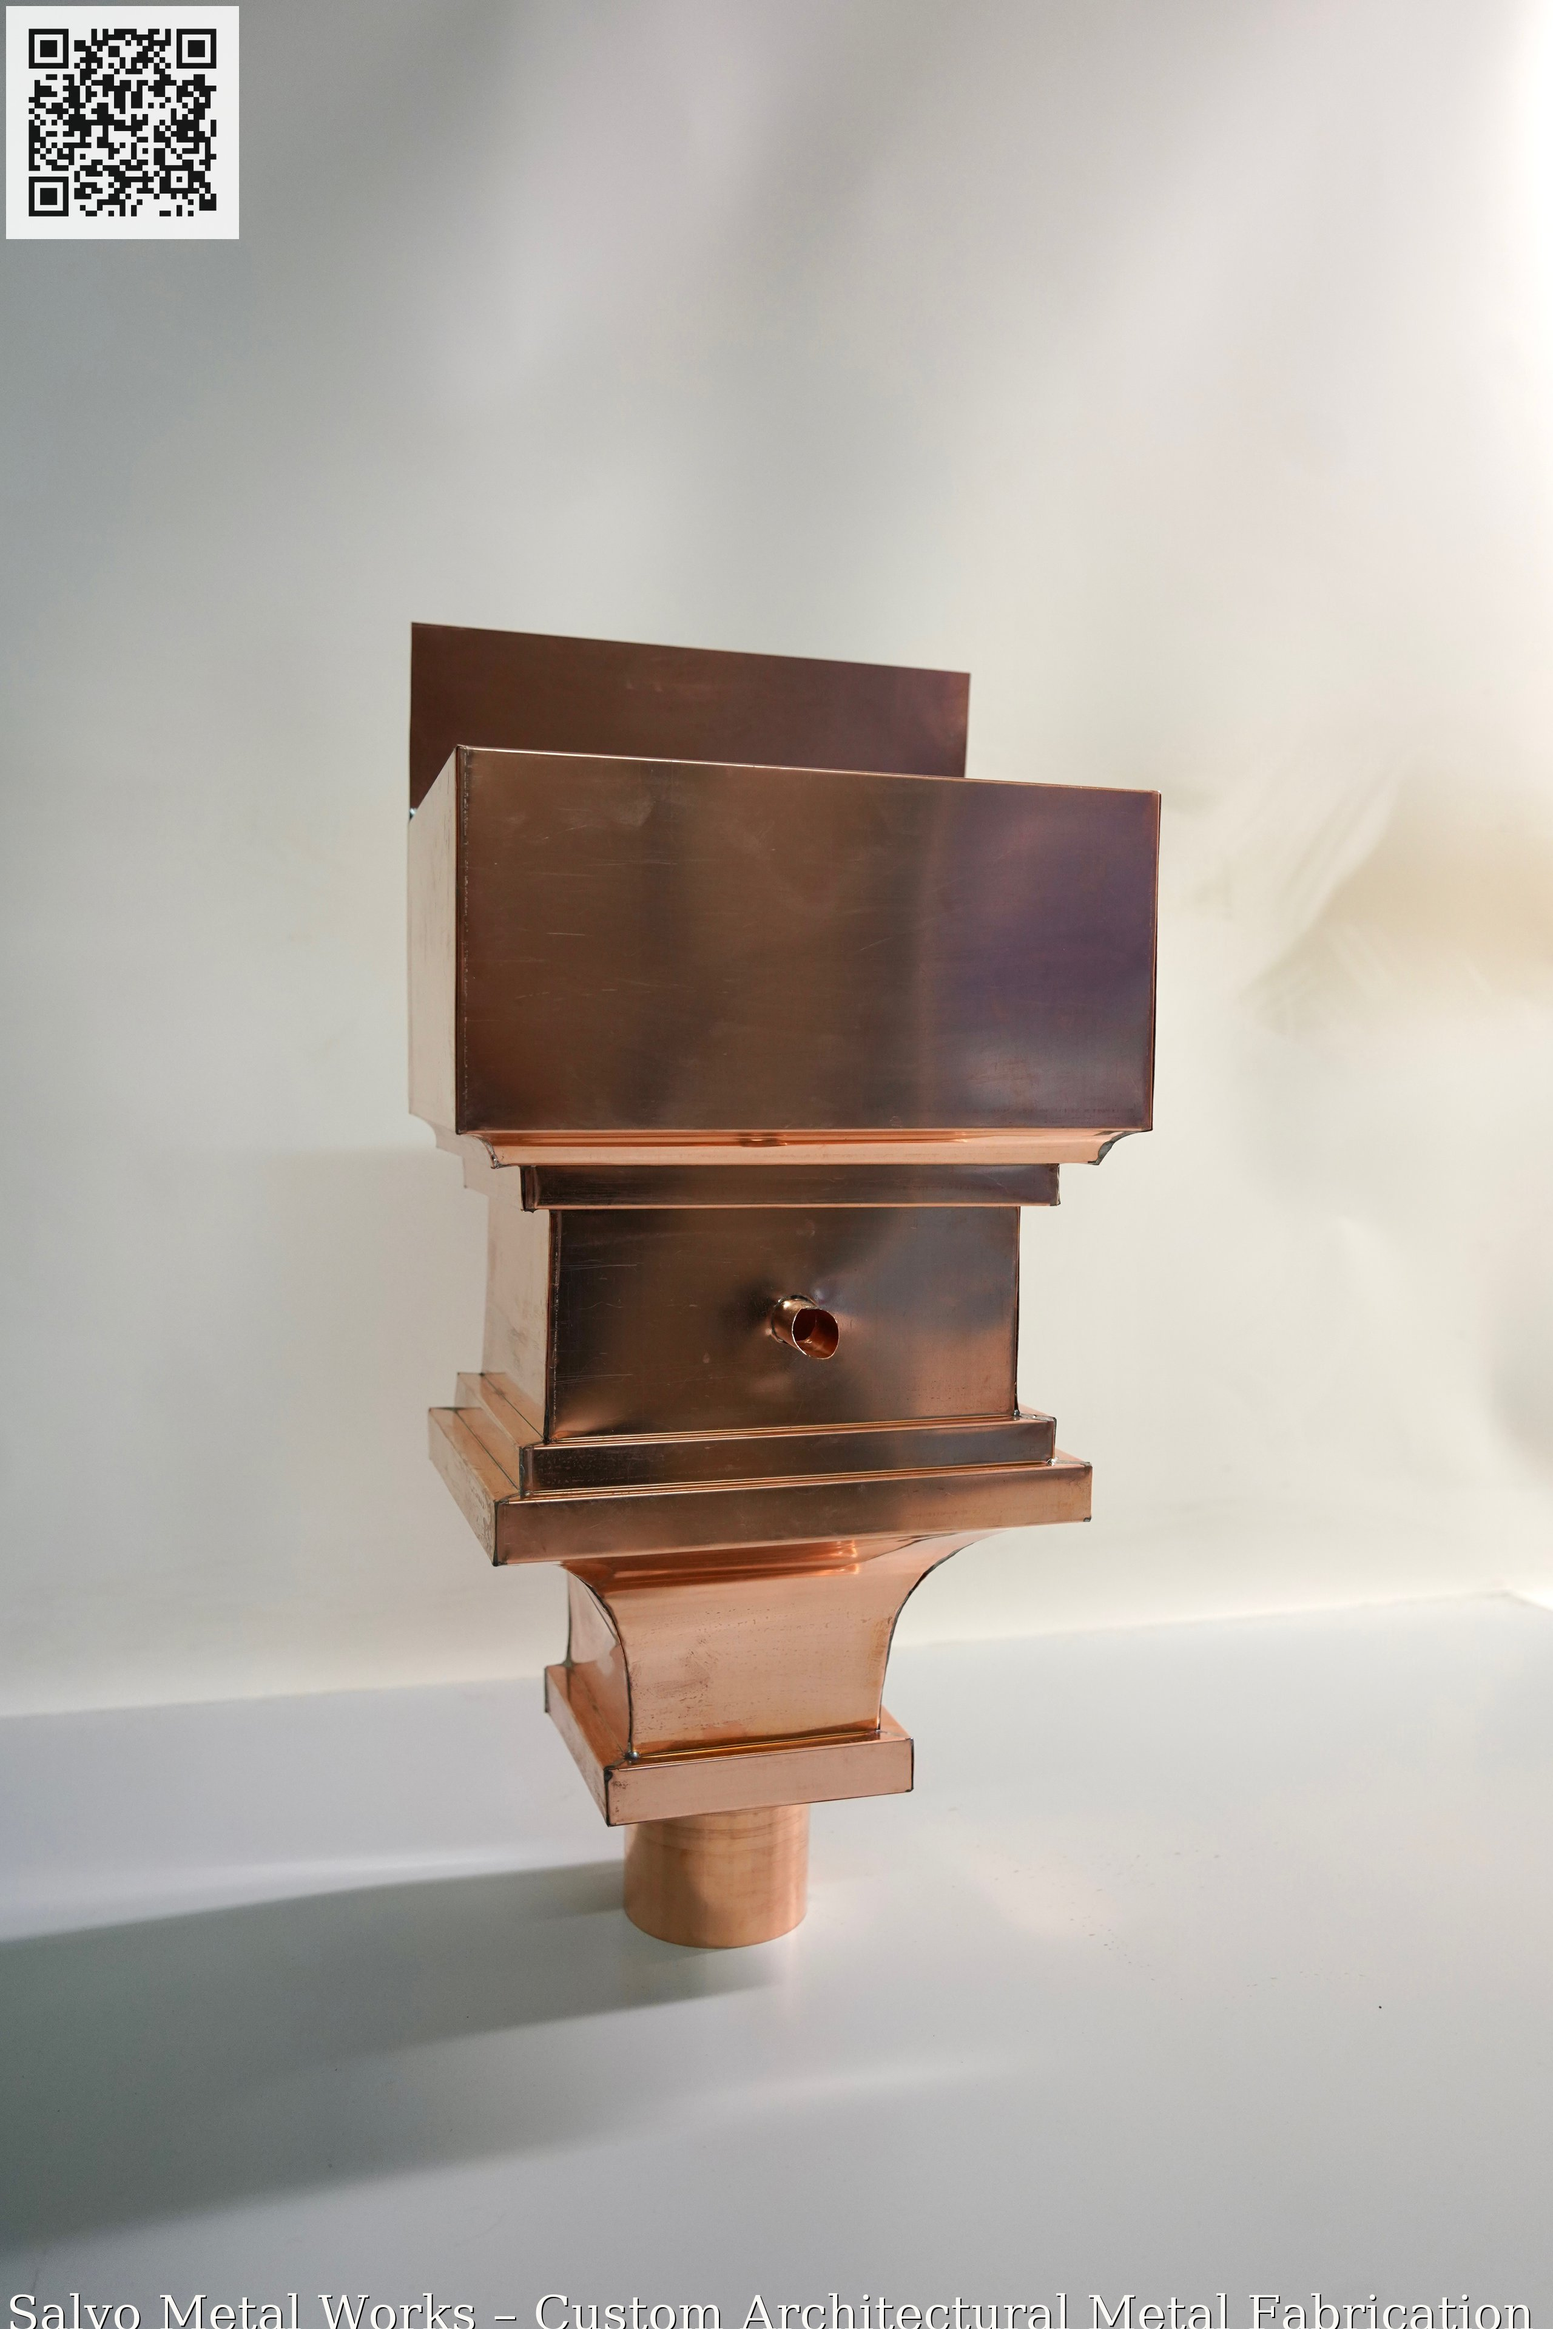
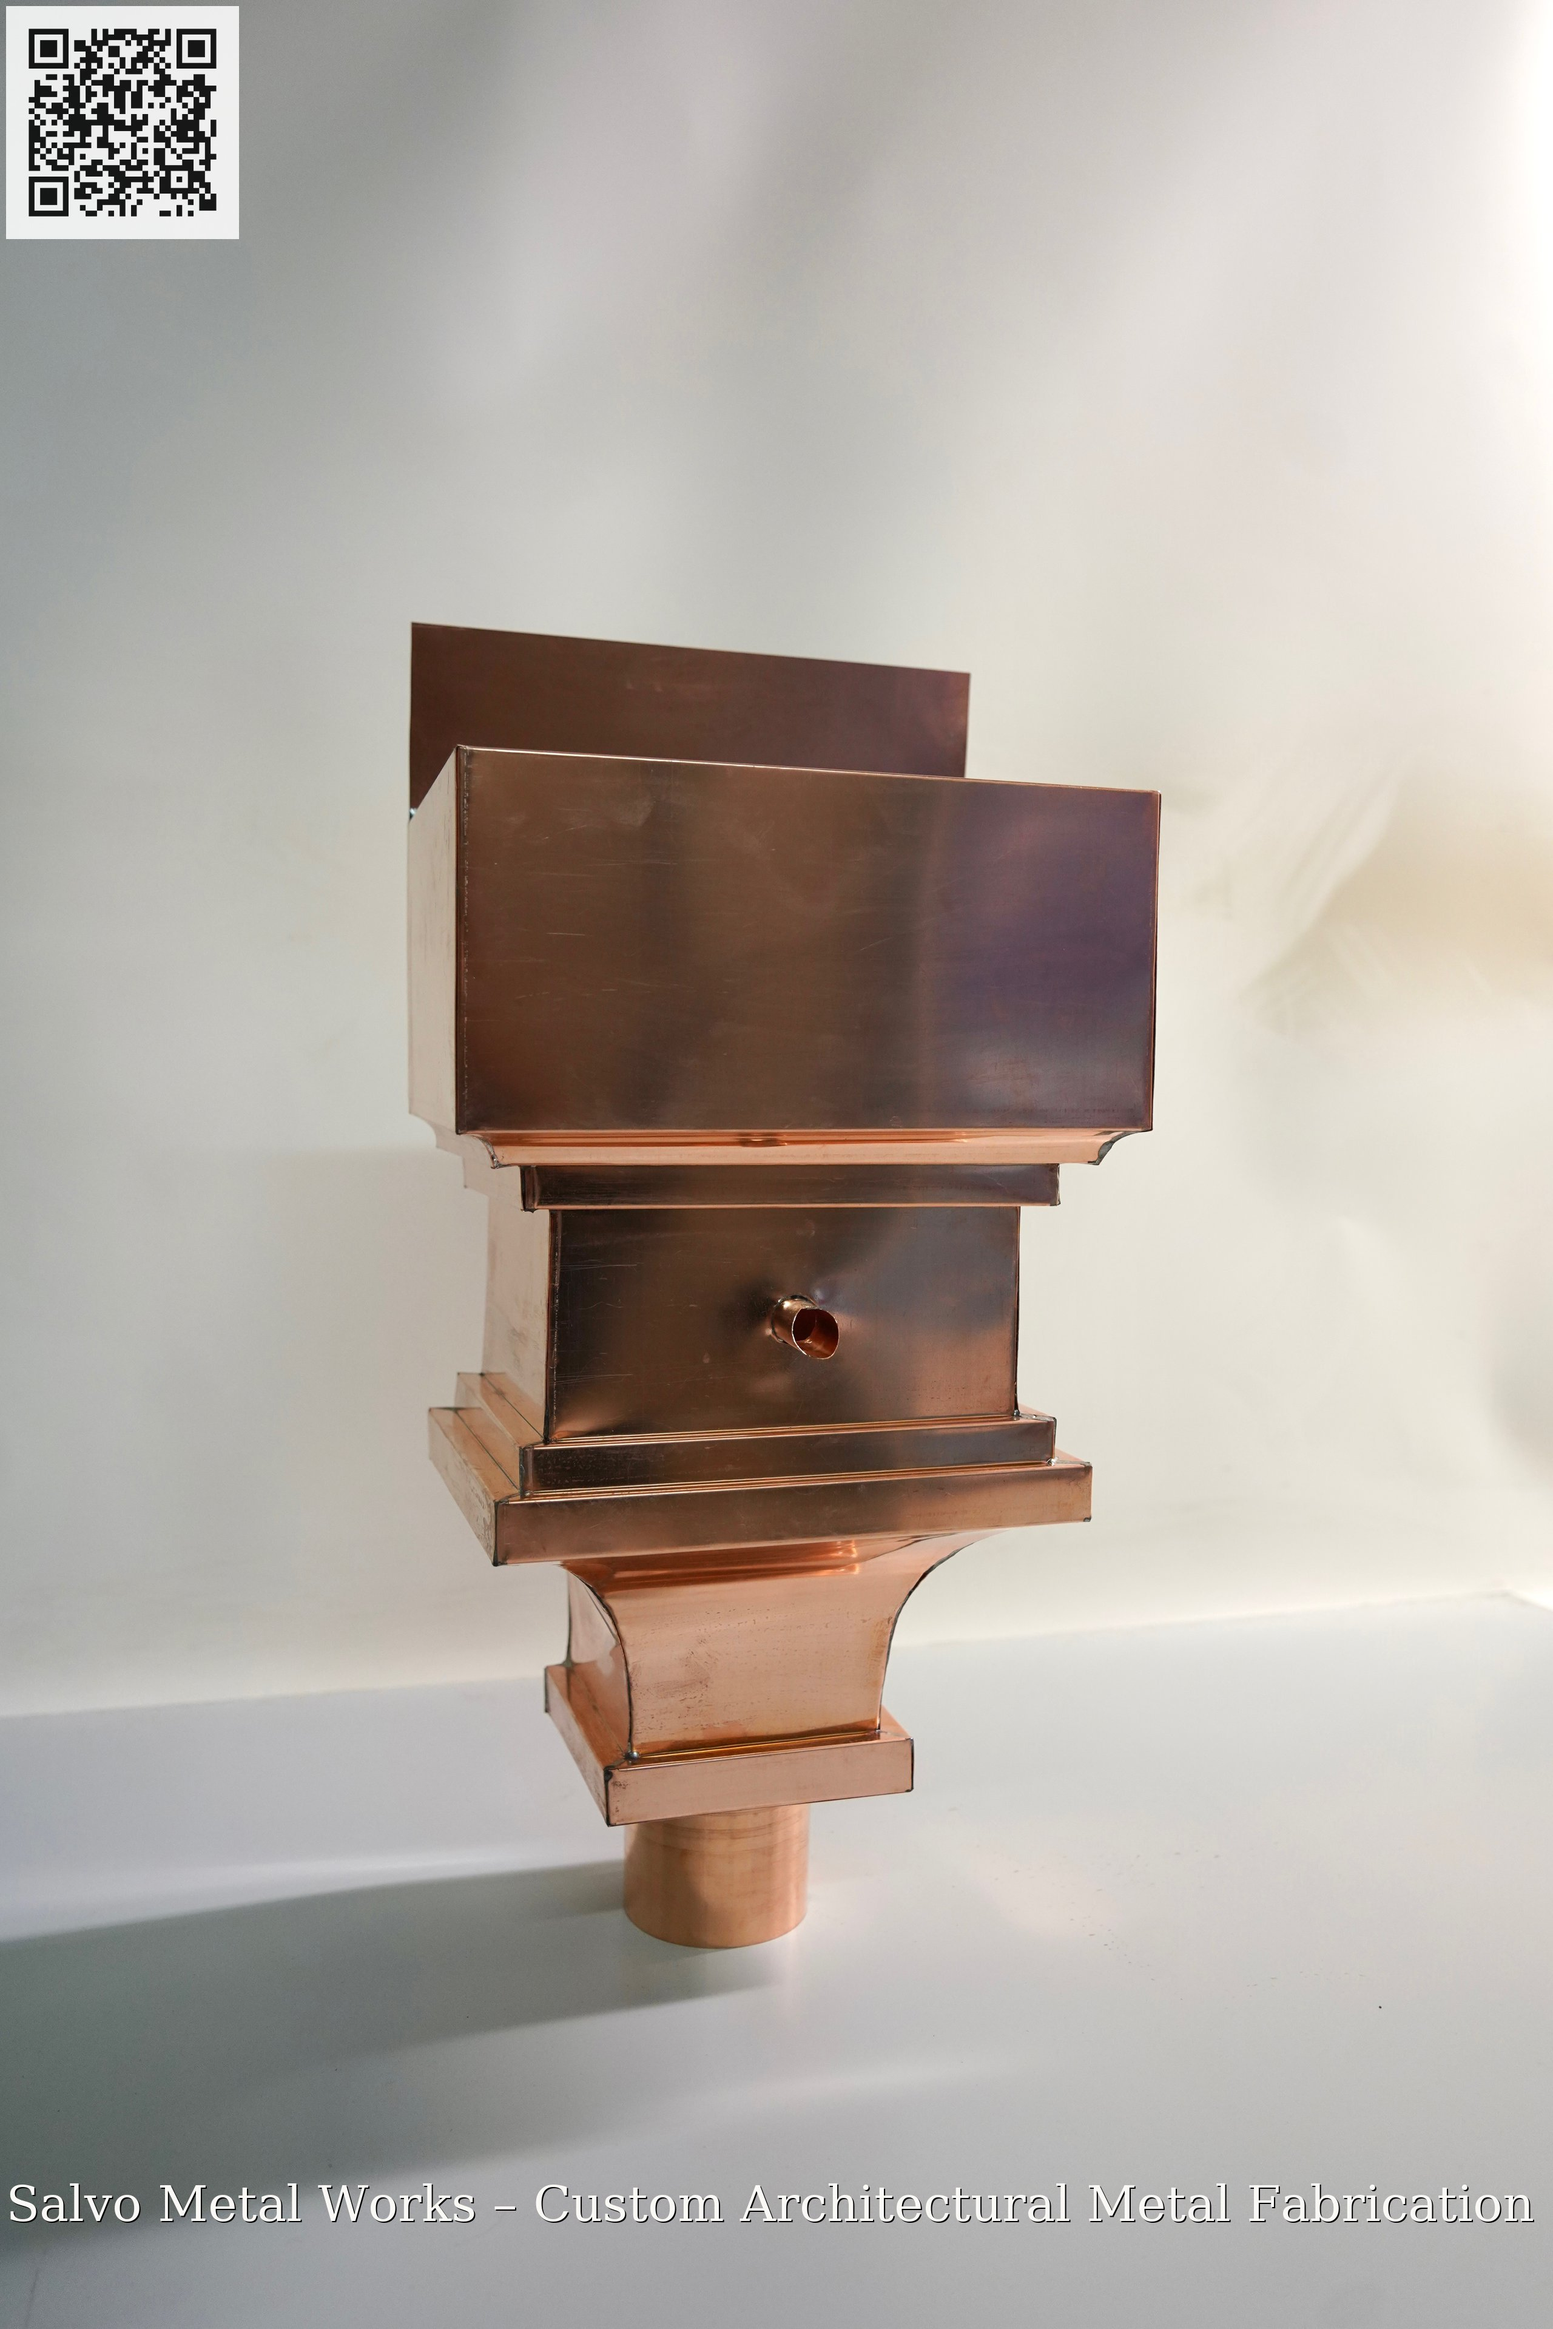
✅ What’s new in this version: 📍 QR Code: Upper-right corner, padded by 1% of image height from the top and right
🖋 Text Overlay: Still bottom-left, with 5% vertical padding

🔍 Auto-font scaling to prevent edge overflow

Changed region(s): [[0.0, 0.9922, 1.0, 1.0], [0.3438, 0.9302, 1.0, 0.9612], [0.0, 0.9302, 0.3125, 0.9612]]

diff --git a/qr_watermark.py b/qr_watermark.py
@@ -3,8 +3,8 @@
 Module/Script Name: qr_watermark.py
 
 Description:
-Batch watermarks all images in the input directory with a generated QR code (top-left)
-and a styled text overlay (bottom-left), with auto-scaling and 5% vertical padding.
+Batch watermarks all images in the input directory with a generated QR code (top-right, 1% VH padding)
+and a styled text overlay (bottom-left), with auto-scaling and 5% VH bottom padding.
 
 Author(s):
 Skippy the Magnificent with an eensy weensy bit of help from that filthy monkey, Big G
@@ -18,8 +18,9 @@ Last Modified Date:
 Comments:
 - v1.00: Initial QR watermark implementation
 - v1.01: Added text overlay with Playfair Display and drop shadow
-- v1.02: Auto-scales text to fit image, moved QR to top-left
-- v1.03: Added 5% vertical padding below text overlay
+- v1.02: Auto-scaling text, QR moved to top-left
+- v1.03: Added 5% VH padding below text
+- v1.04: QR repositioned to upper-right with 1% VH top/right padding
 """
 
 import os
@@ -36,8 +37,9 @@ QR_OPACITY = 0.85
 TEXT_OVERLAY = "Salvo Metal Works – Custom Architectural Metal Fabrication"
 TEXT_COLOR = (250, 249, 246)  # Antique White
 SHADOW_COLOR = (0, 0, 0, 128)  # Semi-transparent black
-TEXT_POSITION = 'bottom-left'
 FONT_SIZE_RATIO = 0.035  # Initial guess
+TEXT_PADDING_BOTTOM_RATIO = 0.05  # 5% VH
+QR_PADDING_VH_RATIO = 0.01  # 1% VH for top/right padding
 
 os.makedirs(OUTPUT_DIR, exist_ok=True)
 
@@ -63,9 +65,10 @@ def add_watermarks(image_path, qr_img, font_path='PlayfairDisplay-Regular.ttf'):
     alpha = ImageEnhance.Brightness(alpha).enhance(QR_OPACITY)
     qr_resized.putalpha(alpha)
 
-    # Paste QR (top-left corner)
-    qr_x = 10
-    qr_y = 10
+    # Paste QR (top-right corner with 1% VH padding)
+    pad = int(img_h * QR_PADDING_VH_RATIO)
+    qr_x = img_w - qr_size - pad
+    qr_y = pad
     img.paste(qr_resized, (qr_x, qr_y), qr_resized)
 
     # Draw text
@@ -84,7 +87,7 @@ def add_watermarks(image_path, qr_img, font_path='PlayfairDisplay-Regular.ttf'):
 
     text_h = bbox[3] - bbox[1]
     text_x = 10
-    padding_bottom = int(img_h * 0.05)
+    padding_bottom = int(img_h * TEXT_PADDING_BOTTOM_RATIO)
     text_y = img_h - text_h - padding_bottom
 
     # Drop shadow
